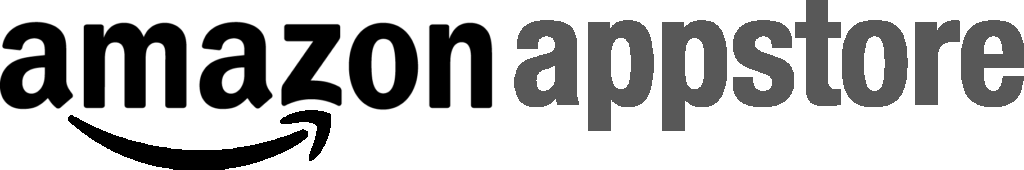
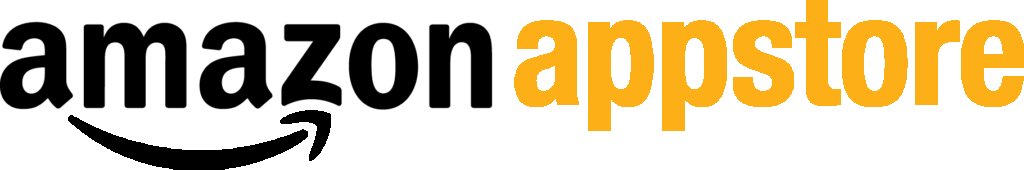
made a lot of progress

Changed region(s): [[0.5, 0.0, 1.0, 0.7941]]

diff --git a/public/css/WebStyles.css b/public/css/WebStyles.css
@@ -21,7 +21,7 @@ header{
     position: absolute;
     justify-content: space-between;
     align-items: center;
-    max-width: 1000px;
+    max-width: 1200px;
     width: 100%;
     height: 90px;
     padding: 0 20px;
@@ -57,17 +57,17 @@ header{
     display: flex;
     width: 100%;
     height: 100%;
-    max-width: 1000px;
+    max-width: 1200px;
+    padding: 20px;
 }
 .partOne > div > div{
     display: flex;
     flex-direction: column;
     justify-content: center;
     align-items: center;
-    margin: 10px;
 }
 .partOne > div > div > .phonImage{
-    width: 300px;
+    width: 400px;
 }
 .partOne > div > div > *{
     width: 100%;
@@ -90,14 +90,24 @@ header{
     background-position-y: 14px;
     background-repeat: no-repeat;
     background-size: 150px;
+    filter: grayscale(100%);
     height: 50px;
     width: 190px;
+    transition: 0.2s;
+}
+.partOne > div > div > .appStores > div:nth-child(1):hover{
+    filter: grayscale(0%);
 }
 .partOne > div > div > .appStores > div:nth-child(2){
     background-image: url("/images/appGallery.png");
     background-position: center;
     background-repeat: no-repeat;
     background-size: contain;
+    filter: grayscale(100%);
     height: 50px;
     width: 170px;
+    transition: 0.2s;
+}
+.partOne > div > div > .appStores > div:nth-child(2):hover{
+    filter: grayscale(0%);
 }
